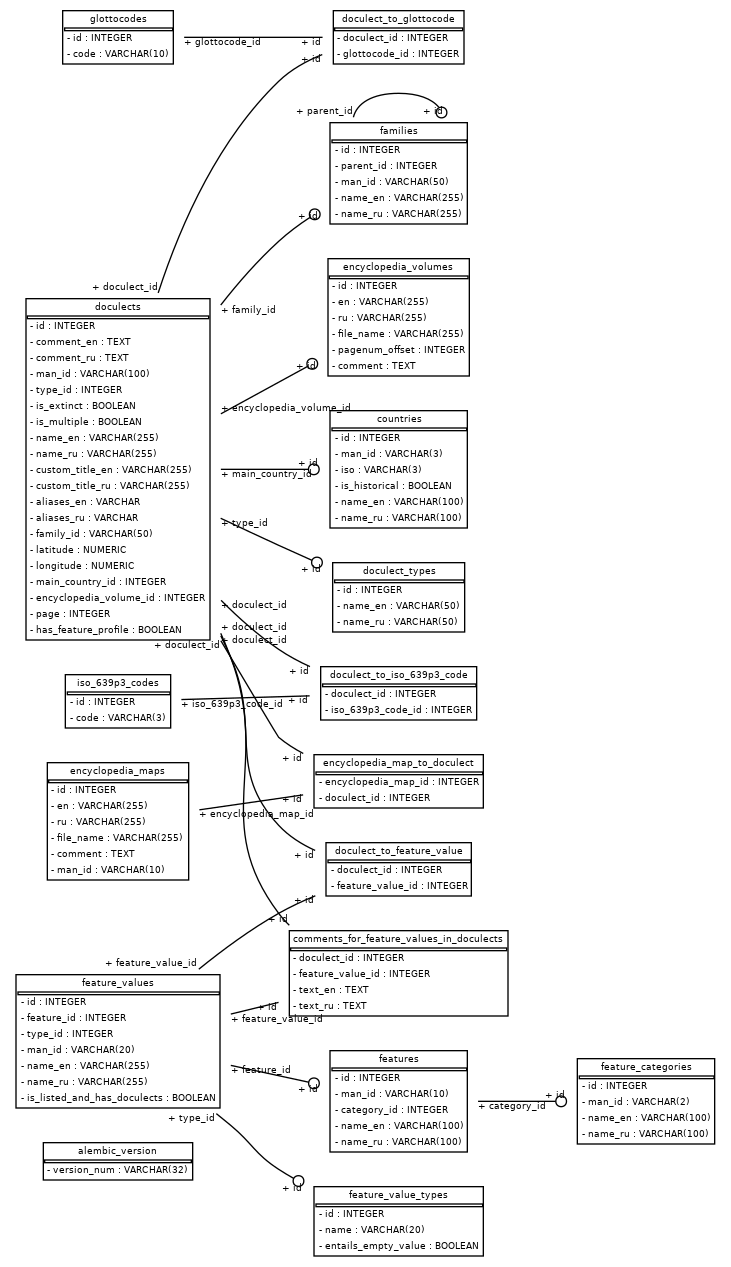
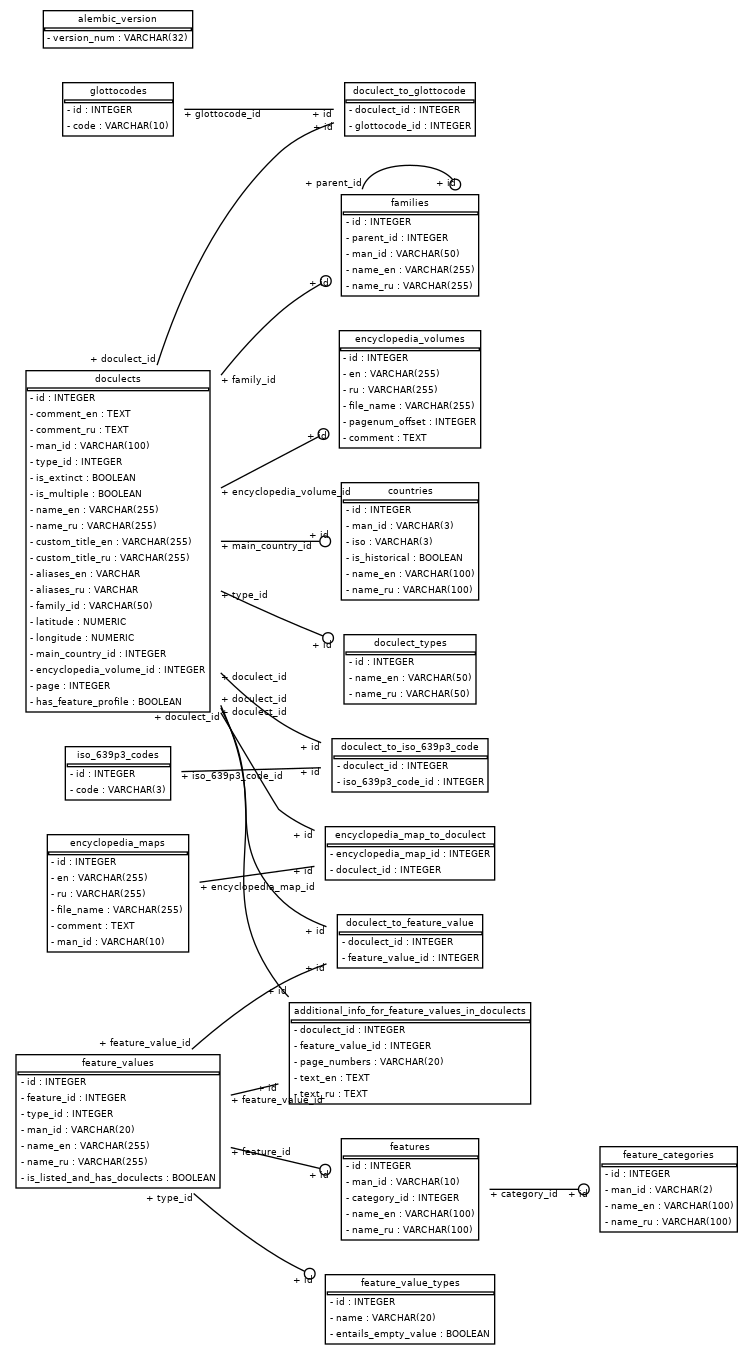
feat(models):rename `DoculectFeatureValueComment`, add pagenum attribute
* rename `DoculectFeatureValueComment`
into `DoculectFeatureValueInfo`

* add attribute for page numbers

pages not yet implemented in Jinja template

diff --git a/langworld_db_pyramid/alembic/versions/20220920_c0f17d34f98e.py b/langworld_db_pyramid/alembic/versions/20220920_c0f17d34f98e.py
@@ -1,0 +1,45 @@
+"""rename DoculectFeatureValueComment -> ...Info, add page_numbers
+
+Revision ID: c0f17d34f98e
+Revises: 31f7393c69c5
+Create Date: 2022-09-20 18:15:38.669052
+
+"""
+from alembic import op
+import sqlalchemy as sa
+
+
+# revision identifiers, used by Alembic.
+revision = 'c0f17d34f98e'
+down_revision = '31f7393c69c5'
+branch_labels = None
+depends_on = None
+
+def upgrade():
+    # ### commands auto generated by Alembic - please adjust! ###
+    op.create_table('additional_info_for_feature_values_in_doculects',
+    sa.Column('doculect_id', sa.Integer(), nullable=False),
+    sa.Column('feature_value_id', sa.Integer(), nullable=False),
+    sa.Column('page_numbers', sa.String(length=20), nullable=True),
+    sa.Column('text_en', sa.Text(), nullable=True),
+    sa.Column('text_ru', sa.Text(), nullable=True),
+    sa.ForeignKeyConstraint(['doculect_id'], ['doculects.id'], name=op.f('fk_additional_info_for_feature_values_in_doculects_doculect_id_doculects')),
+    sa.ForeignKeyConstraint(['feature_value_id'], ['feature_values.id'], name=op.f('fk_additional_info_for_feature_values_in_doculects_feature_value_id_feature_values')),
+    sa.PrimaryKeyConstraint('doculect_id', 'feature_value_id', name=op.f('pk_additional_info_for_feature_values_in_doculects'))
+    )
+    op.drop_table('comments_for_feature_values_in_doculects')
+    # ### end Alembic commands ###
+
+def downgrade():
+    # ### commands auto generated by Alembic - please adjust! ###
+    op.create_table('comments_for_feature_values_in_doculects',
+    sa.Column('doculect_id', sa.INTEGER(), nullable=False),
+    sa.Column('feature_value_id', sa.INTEGER(), nullable=False),
+    sa.Column('text_en', sa.TEXT(), nullable=True),
+    sa.Column('text_ru', sa.TEXT(), nullable=True),
+    sa.ForeignKeyConstraint(['doculect_id'], ['doculects.id'], name='fk_comments_for_feature_values_in_doculects_doculect_id_doculects'),
+    sa.ForeignKeyConstraint(['feature_value_id'], ['feature_values.id'], name='fk_comments_for_feature_values_in_doculects_feature_value_id_feature_values'),
+    sa.PrimaryKeyConstraint('doculect_id', 'feature_value_id', name='pk_comments_for_feature_values_in_doculects')
+    )
+    op.drop_table('additional_info_for_feature_values_in_doculects')
+    # ### end Alembic commands ###

diff --git a/langworld_db_pyramid/scripts/initialize_db.py b/langworld_db_pyramid/scripts/initialize_db.py
@@ -49,7 +49,7 @@ class CustomModelInitializer:
             models.association_tables.DoculectToIso639P3Code,
             models.association_tables.EncyclopediaMapToDoculect,
             models.Doculect,
-            models.DoculectFeatureValueComment,
+            models.DoculectFeatureValueInfo,
             models.DoculectType,
             models.Country,
             models.EncyclopediaMap,
@@ -300,12 +300,14 @@ class CustomModelInitializer:
             type_of_this_doculect = self.doculect_type_for_id[doculect_row_to_write.pop('type')]
 
             glottocodes_for_this_doculect = [
-                self.glottocode_for_id[glottocode] for glottocode in doculect_row_to_write.pop('glottocode').split(', ')
+                self.glottocode_for_id[glottocode]
+                for glottocode in doculect_row_to_write.pop('glottocode').split(', ')
                 if glottocode
             ]
 
             iso_639p3_codes_for_this_doculect = [
-                self.iso639p3code_for_id[iso_code] for iso_code in doculect_row_to_write.pop('iso_639_3').split(', ')
+                self.iso639p3code_for_id[iso_code]
+                for iso_code in doculect_row_to_write.pop('iso_639_3').split(', ')
                 if iso_code
             ]
 
@@ -367,10 +369,12 @@ class CustomModelInitializer:
                     doculect.feature_values.append(value)
 
                     # 2. Processing comment
-                    if feature_profile_row['comment_ru'] or feature_profile_row['comment_en']:
-                        models.DoculectFeatureValueComment(
+                    if feature_profile_row['comment_ru'] or feature_profile_row['comment_en'] or feature_profile_row[
+                            'page_numbers']:
+                        models.DoculectFeatureValueInfo(
                             doculect=doculect,
                             feature_value=value,
+                            page_numbers=feature_profile_row['page_numbers'],
                             text_en=feature_profile_row['comment_en'],
                             text_ru=feature_profile_row['comment_ru'],
                         )  # will be added to dbsession automatically when doculect gets added

diff --git a/langworld_db_pyramid/views/doculect_profile.py b/langworld_db_pyramid/views/doculect_profile.py
@@ -10,19 +10,19 @@ from langworld_db_pyramid.dbutils.query_helpers import get_all, get_by_man_id
 def view_doculect_profile(request):
     doculect = get_by_man_id(request=request, model=models.Doculect, man_id=request.matchdict['doculect_man_id'])
 
-    # Create a dictionary to easily find a comment for a given feature value and a given doculect:
-    # 1. Query to find comments only for this doculect
-    comments: list[models.DoculectFeatureValueComment] = get_all(
+    # Create a dictionary to easily find an info item for a given feature value and a given doculect:
+    # 1. Query to find info items only for this doculect
+    info_items: list[models.DoculectFeatureValueInfo] = get_all(
         request,
-        select(models.DoculectFeatureValueComment).where(models.DoculectFeatureValueComment.doculect_id == doculect.id))
-    # 2. Map feature values to comments for this doculect.
-    comment_for_feature_value: dict[str, models.DoculectFeatureValueComment] = {
-        comment.feature_value: comment for comment in comments
+        select(models.DoculectFeatureValueInfo).where(models.DoculectFeatureValueInfo.doculect_id == doculect.id))
+    # 2. Map feature values to info item for this doculect.
+    info_for_feature_value: dict[str, models.DoculectFeatureValueInfo] = {
+        item.feature_value: item for item in info_items
     }
 
     return {
         'doculect': doculect,
         'categories': get_all(request,
                               select(models.FeatureCategory).order_by(models.FeatureCategory.man_id)),
-        'comment_for_feature_value': comment_for_feature_value
+        'info_for_feature_value': info_for_feature_value
     }

diff --git a/langworld_db_pyramid/models/doculect_feature_value_info.py b/langworld_db_pyramid/models/doculect_feature_value_info.py
@@ -1,4 +1,4 @@
-from sqlalchemy import Column, ForeignKey, Integer, Text
+from sqlalchemy import Column, ForeignKey, Integer, String, Text
 from sqlalchemy.orm import relationship
 
 from langworld_db_pyramid.models.meta import Base
@@ -9,16 +9,17 @@ from langworld_db_pyramid.models.meta import Base
 # while this one is used to add a comment to a specific feature value in a specific doculect.
 
 
-class DoculectFeatureValueComment(Base):
-    """Class for adding comments
+class DoculectFeatureValueInfo(Base):
+    """Class for giving additional info (comments, page numbers)
     to a specific feature value in a specific doculect."""
 
-    __tablename__ = 'comments_for_feature_values_in_doculects'
+    __tablename__ = 'additional_info_for_feature_values_in_doculects'
     doculect_id = Column(Integer, ForeignKey('doculects.id'), primary_key=True)
     feature_value_id = Column(Integer, ForeignKey('feature_values.id'), primary_key=True)
 
+    page_numbers = Column(String(20))  # can be comma-separated numbers, not just single integer
     text_en = Column(Text)
     text_ru = Column(Text)
 
-    doculect = relationship('Doculect', back_populates='feature_value_comments')
+    doculect = relationship('Doculect', back_populates='feature_value_info_items')
     feature_value = relationship('FeatureValue', back_populates='doculect_comments')

diff --git a/langworld_db_pyramid/models/__init__.py b/langworld_db_pyramid/models/__init__.py
@@ -9,7 +9,7 @@ from langworld_db_pyramid.models.association_tables import (  # noqa: F401
     DoculectToFeatureValue, DoculectToGlottocode, DoculectToIso639P3Code)
 from langworld_db_pyramid.models.country import Country  # noqa: F401
 from langworld_db_pyramid.models.doculect import Doculect  # noqa: F401
-from langworld_db_pyramid.models.doculect_feature_value_comment import DoculectFeatureValueComment  # noqa: F401
+from langworld_db_pyramid.models.doculect_feature_value_info import DoculectFeatureValueInfo  # noqa: F401
 from langworld_db_pyramid.models.doculect_type import DoculectType  # noqa: F401
 from langworld_db_pyramid.models.encyclopedia_map import EncyclopediaMap  # noqa: F401
 from langworld_db_pyramid.models.encyclopedia_volume import EncyclopediaVolume  # noqa: F401

diff --git a/langworld_db_pyramid/alembic/versions/20220920_6ecd3a72f0a7.py b/langworld_db_pyramid/alembic/versions/20220920_6ecd3a72f0a7.py
@@ -1,0 +1,26 @@
+"""rename relationship in Doculect
+
+Revision ID: 6ecd3a72f0a7
+Revises: c0f17d34f98e
+Create Date: 2022-09-20 18:24:49.613784
+
+"""
+from alembic import op
+import sqlalchemy as sa
+
+
+# revision identifiers, used by Alembic.
+revision = '6ecd3a72f0a7'
+down_revision = 'c0f17d34f98e'
+branch_labels = None
+depends_on = None
+
+def upgrade():
+    # ### commands auto generated by Alembic - please adjust! ###
+    pass
+    # ### end Alembic commands ###
+
+def downgrade():
+    # ### commands auto generated by Alembic - please adjust! ###
+    pass
+    # ### end Alembic commands ###

diff --git a/langworld_db_pyramid/models/feature_value.py b/langworld_db_pyramid/models/feature_value.py
@@ -30,7 +30,7 @@ class FeatureValue(Base):
     is_listed_and_has_doculects = Column(Boolean)
 
     doculects = relationship('Doculect', secondary='doculect_to_feature_value', back_populates='feature_values')
-    doculect_comments = relationship('DoculectFeatureValueComment', back_populates='feature_value')
+    doculect_comments = relationship('DoculectFeatureValueInfo', back_populates='feature_value')
     feature = relationship('Feature', back_populates='values')
     type = relationship('FeatureValueType', back_populates='values')
 

diff --git a/langworld_db_pyramid/models/doculect.py b/langworld_db_pyramid/models/doculect.py
@@ -38,7 +38,7 @@ class Doculect(Base):
 
     encyclopedia_volume = relationship('EncyclopediaVolume', back_populates='doculects')
     family = relationship('Family', back_populates='doculects')
-    feature_value_comments = relationship('DoculectFeatureValueComment', back_populates='doculect')
+    feature_value_info_items = relationship('DoculectFeatureValueInfo', back_populates='doculect')
     main_country = relationship('Country', back_populates='doculects')
     type = relationship('DoculectType', back_populates='doculects')
 

diff --git a/tests/test_views.py b/tests/test_views.py
@@ -222,7 +222,7 @@ def test_view_doculect_profile(dummy_request, setup_models_once_for_test_module)
 
     assert len(data['categories']) == 14
 
-    comment_for_value = data['comment_for_feature_value']
+    comment_for_value = data['info_for_feature_value']
     assert len(comment_for_value) == 21
 
     for man_id in ('K-1-3', 'K-2-3'):
